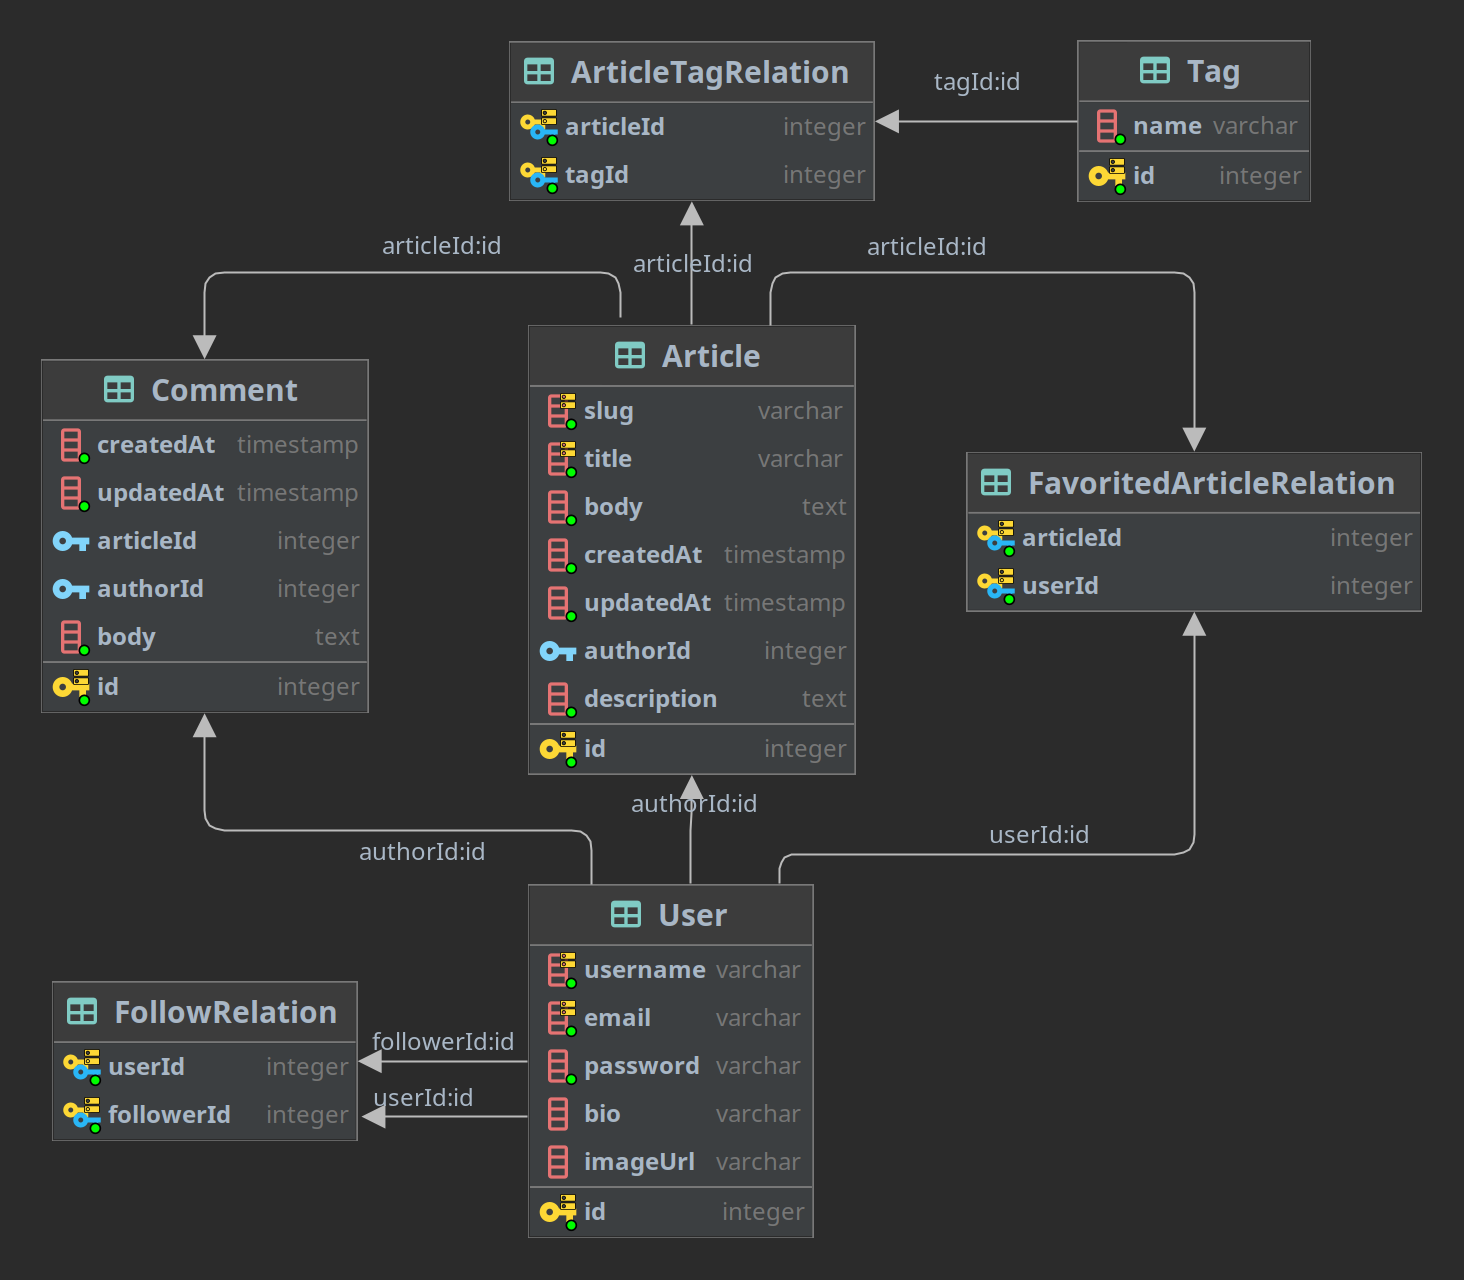
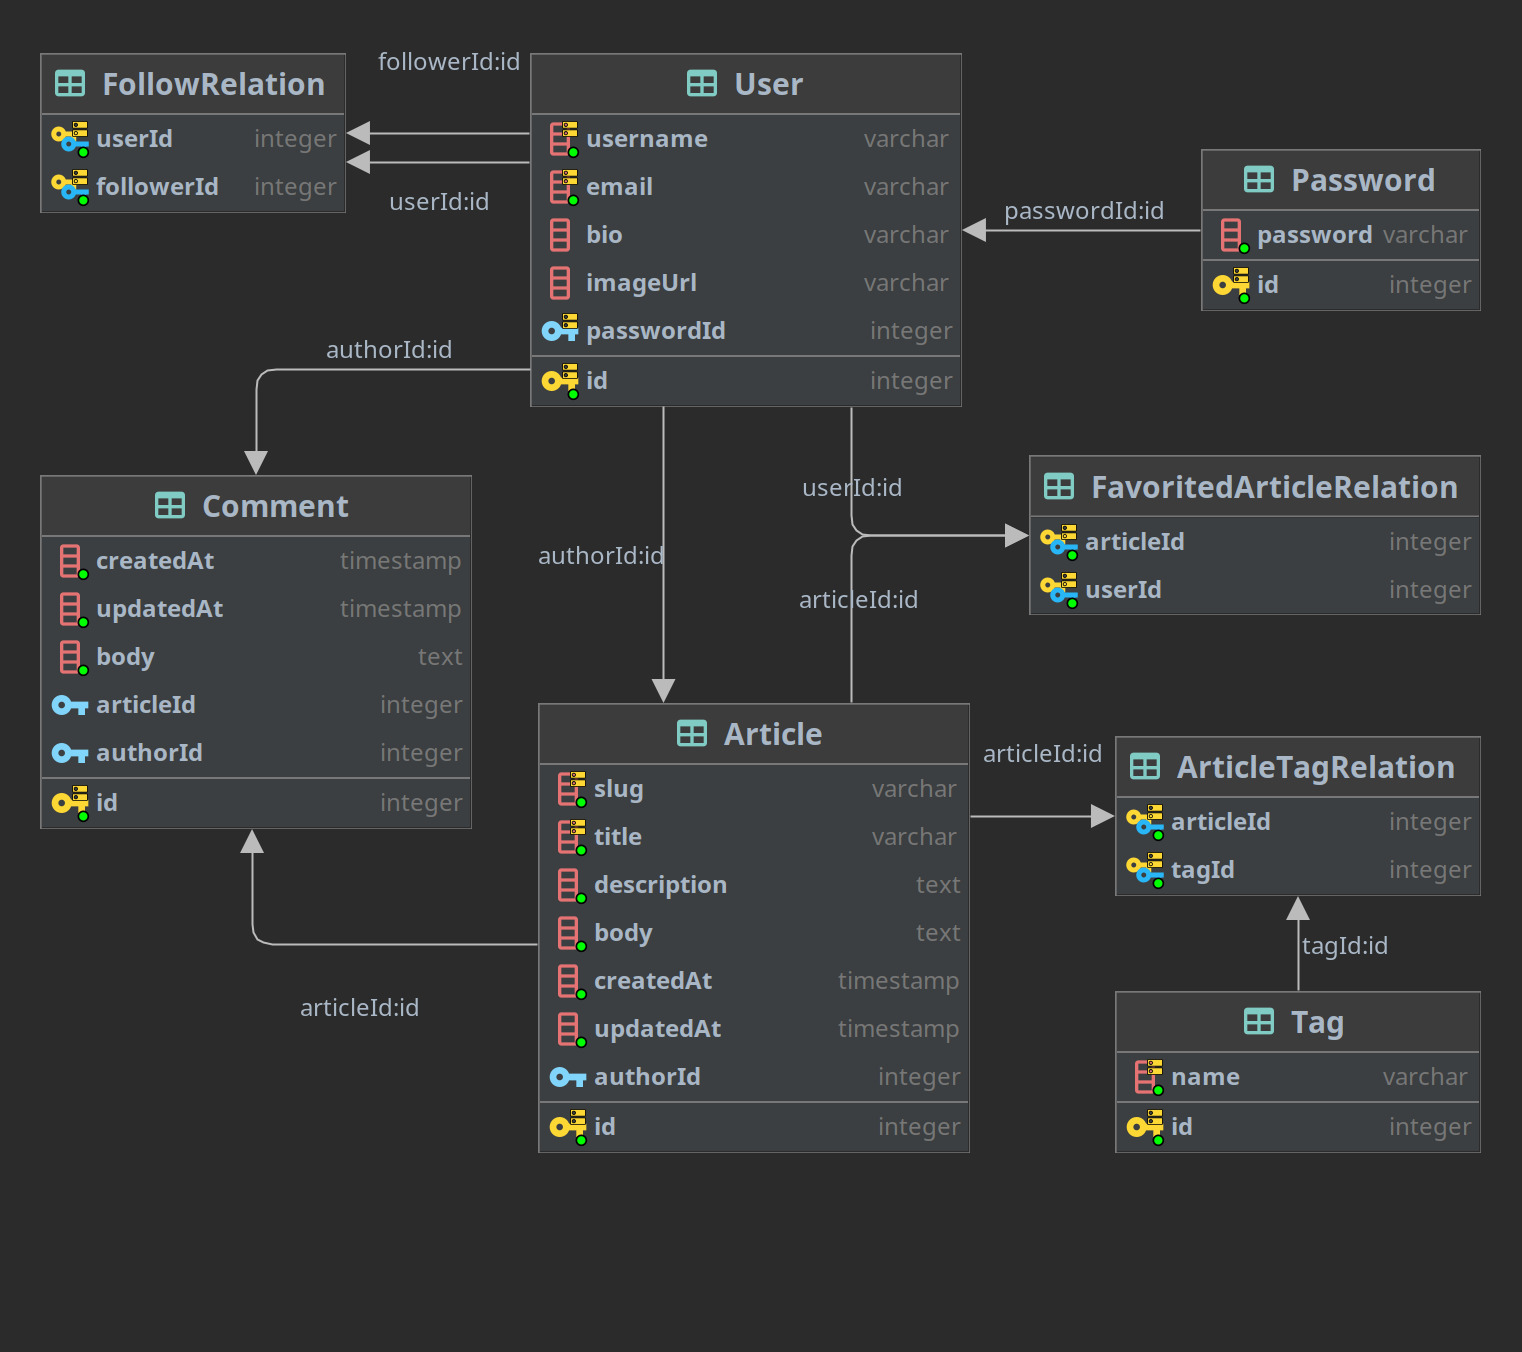
separates password to a different table in database

diff --git a/src/modules/auth/services/auth.service.ts b/src/modules/auth/services/auth.service.ts
@@ -4,23 +4,46 @@ import { User } from "../../users/entities/user.entity"
 import { LoginDto } from "../dto/login.dto"
 import { TokenService } from "./token.service"
 import { TokenizedUser } from "../../users/types/users.types"
-import { comparePasswordToHash } from "../security/hash-password"
+import { compareStringToHash } from "../security/hash-string"
 import { AUTH_MESSAGES } from "../../../exceptions/messages.exceptions"
+import { CreateUserDto } from "../../users/dto/create-user.dto"
+import { PasswordRepository } from "../../users/repositories/password.repository"
 
 @Injectable()
 export class AuthService {
-  constructor(private usersService: UsersService, private tokenService: TokenService) {}
+  constructor(
+    private usersService: UsersService,
+    private tokenService: TokenService,
+    private passRepo: PasswordRepository
+  ) {}
 
-  async login(loginData: LoginDto): Promise<TokenizedUser> {
-    const user = await this.authenticateUser(loginData.email, loginData.password)
+  async registerUser(createUserData: CreateUserDto): Promise<TokenizedUser> {
+    const password = createUserData.password
+    delete createUserData.password
+    const user = await this.usersService.registerUser(createUserData)
+    await this.registerPassword(user, password)
     return this.tokenService.addTokenToUser(user)
   }
 
-  private async authenticateUser(email: string, password: string): Promise<Partial<User>> {
-    const user = await this.usersService.getUserWithToken({ email })
-    if (!user) throw new UnauthorizedException(AUTH_MESSAGES.UNAUTHORIZED_CREDENTIALS)
-    const doesPasswordMatch = await comparePasswordToHash(password, user.password)
+  async login(loginData: LoginDto): Promise<TokenizedUser> {
+    const passwordEntity = await this.passRepo.getPasswordFromUserIdOrEmail(loginData.email)
+    if (!passwordEntity) throw new UnauthorizedException(AUTH_MESSAGES.UNAUTHORIZED_CREDENTIALS)
+    const doesPasswordMatch = await compareStringToHash(loginData.password, passwordEntity.password)
     if (!doesPasswordMatch) throw new UnauthorizedException(AUTH_MESSAGES.UNAUTHORIZED_CREDENTIALS)
-    return user
+    return await this.usersService.getUserWithToken({ email: loginData.email })
+  }
+
+  async updatePassword(requestingUserId: number, oldPassword: string, password: string): Promise<void> {
+    let passwordEntity = await this.passRepo.getPasswordFromUserIdOrEmail(requestingUserId)
+    passwordEntity = this.passRepo.create(passwordEntity)
+    const doesPasswordMatch = await compareStringToHash(oldPassword, passwordEntity.password)
+    if (!doesPasswordMatch) throw new UnauthorizedException(AUTH_MESSAGES.UNAUTHORIZED_CREDENTIALS)
+    passwordEntity.password = password
+    await this.passRepo.save(passwordEntity)
+  }
+
+  private async registerPassword(user: User, password: string): Promise<void> {
+    const passwordEntity = this.passRepo.create({ password, user })
+    await this.passRepo.save(passwordEntity)
   }
 }

diff --git a/src/modules/auth/controllers/auth.controller.ts b/src/modules/auth/controllers/auth.controller.ts
@@ -1,24 +1,36 @@
-import { Body, Controller, Post } from "@nestjs/common"
+import { Body, Controller, Post, Put, UseGuards } from "@nestjs/common"
 import { AuthService } from "../services/auth.service"
 import { LoginDto } from "../dto/login.dto"
 import { CreateUserDto } from "../../users/dto/create-user.dto"
-import { UsersService } from "../../users/services/users.service"
 import { UserDto } from "../../users/dto/user.dto"
 import { TokenizedUser } from "../../users/types/users.types"
 import { ResponseMapper } from "../../../interceptors/dto-response-mapper.interceptor"
+import { JwtAuthGuard } from "../guards/jwt-auth.guard"
+import { RequestingUserIdPipe } from "../../../pipes/requesting-user-id.pipe"
+import { UpdatePasswordDto } from "../dto/update-password.dto"
 
 @Controller("/users")
-@ResponseMapper(UserDto)
 export class AuthController {
-  constructor(private authService: AuthService, private usersService: UsersService) {}
+  constructor(private authService: AuthService) {}
 
+  @ResponseMapper(UserDto)
   @Post("/login")
   async login(@Body("user") loginData: LoginDto): Promise<TokenizedUser> {
     return await this.authService.login(loginData)
   }
 
+  @ResponseMapper(UserDto)
   @Post()
   async registerUser(@Body("user") createUserData: CreateUserDto): Promise<TokenizedUser> {
-    return await this.usersService.registerUser(createUserData)
+    return await this.authService.registerUser(createUserData)
+  }
+
+  @UseGuards(JwtAuthGuard)
+  @Put("/password")
+  async changePassword(
+    @RequestingUserIdPipe() id: number,
+    @Body("passwords") updatePasswordDto: UpdatePasswordDto
+  ): Promise<void> {
+    await this.authService.updatePassword(id, updatePasswordDto.oldPassword, updatePasswordDto.password)
   }
 }

diff --git a/src/modules/users/entities/user.entity.ts b/src/modules/users/entities/user.entity.ts
@@ -1,18 +1,18 @@
 import {
-  BeforeInsert,
-  BeforeUpdate,
   Column,
   Entity,
+  JoinColumn,
   JoinTable,
   ManyToMany,
   OneToMany,
+  OneToOne,
   PrimaryGeneratedColumn
 } from "typeorm"
 import { FollowRelation } from "./follow-relation.entity"
 import { Article } from "../../articles/entities/article.entity"
 import { Comment } from "../../articles/entities/comment.entity"
-import { hashPassword } from "src/modules/auth/security/hash-password"
 import { CreateUserDto } from "../dto/create-user.dto"
+import { Password } from "../../auth/entities/password.entity"
 
 @Entity({ name: "User" })
 export class User {
@@ -24,9 +24,6 @@ export class User {
 
   @Column({ unique: true })
   email: string
-
-  @Column()
-  password: string
 
   @Column({ nullable: true })
   bio?: string
@@ -47,16 +44,12 @@ export class User {
   @OneToMany(() => Comment, (comment) => comment.author)
   comments: Comment[]
 
-  @BeforeInsert()
-  @BeforeUpdate()
-  async hashPassword(): Promise<string> {
-    if (this.password.length < 32) this.password = await hashPassword(this.password)
-    return this.password
-  }
+  @OneToOne(() => Password, (password) => password.user)
+  @JoinColumn()
+  password: Password
 
   build(incomingUser: CreateUserDto): User {
     this.username = incomingUser.username
-    this.password = incomingUser.password
     this.email = incomingUser.email
     if (incomingUser.bio) this.bio = incomingUser.bio
     if (incomingUser.imageUrl) this.imageUrl = incomingUser.imageUrl

diff --git a/src/modules/users/repositories/password.repository.ts b/src/modules/users/repositories/password.repository.ts
@@ -1,0 +1,19 @@
+import { EntityRepository, Repository } from "typeorm"
+import { Password } from "../../auth/entities/password.entity"
+import { User } from "../entities/user.entity"
+import { isString } from "class-validator"
+
+@EntityRepository(Password)
+export class PasswordRepository extends Repository<Password> {
+  async getPasswordFromUserIdOrEmail(userId: number): Promise<Password>
+  async getPasswordFromUserIdOrEmail(email: string): Promise<Password>
+  async getPasswordFromUserIdOrEmail(emailOrId: string | number): Promise<Password> {
+    let query = this.manager
+      .createQueryBuilder()
+      .from(User, "U")
+      .select(["P.password as password", "P.id as id"])
+    if (isString(emailOrId)) query = query.where("U.email = :email", { email: emailOrId })
+    else query = query.where("U.id = :userId", { userId: emailOrId })
+    return await query.innerJoin(Password, "P", "U.passwordId = P.id").getRawOne()
+  }
+}

diff --git a/src/modules/users/services/users.service.ts b/src/modules/users/services/users.service.ts
@@ -5,15 +5,15 @@ import { TokenService } from "../../auth/services/token.service"
 import { FindOption, TokenizedUser } from "../types/users.types"
 import { UsersRepository } from "../repositories/users.repository"
 import { USER_MESSAGES } from "../../../exceptions/messages.exceptions"
+import { User } from "../entities/user.entity"
 
 @Injectable()
 export class UsersService {
   constructor(private usersRepo: UsersRepository, private tokenService: TokenService) {}
 
-  async registerUser(incomingUser: CreateUserDto): Promise<TokenizedUser> {
+  async registerUser(incomingUser: CreateUserDto): Promise<User> {
     await this.throwIfUserExists(incomingUser)
-    const user = await this.usersRepo.createAndSave(incomingUser)
-    return await this.tokenService.addTokenToUser(user)
+    return await this.usersRepo.createAndSave(incomingUser)
   }
 
   async getUserWithToken(option: FindOption): Promise<TokenizedUser> {

diff --git a/src/modules/users/dto/create-user.dto.ts b/src/modules/users/dto/create-user.dto.ts
@@ -1,20 +1,12 @@
-import { IsEmail, IsOptional, IsString, IsUrl, Matches, MaxLength, MinLength } from "class-validator"
+import { IsEmail, IsOptional, IsString, IsUrl } from "class-validator"
+import { PasswordDto } from "../../auth/dto/password.dto"
 
-export class CreateUserDto {
+export class CreateUserDto extends PasswordDto {
   @IsString()
   username: string
 
   @IsEmail()
   email: string
-
-  @IsString()
-  @MinLength(8, { message: "requires at least 8 characters" })
-  @MaxLength(32, { message: "requires at most 32 characters" })
-  @Matches("[A-Z]", "", { message: "requires upper-case characters" })
-  @Matches("[a-z]", "", { message: "requires lower-case characters" })
-  @Matches("\\d", "", { message: "requires numbers" })
-  @Matches("\\W", "", { message: "requires non alpha numeric characters" })
-  password: string
 
   @IsOptional()
   @IsString()

diff --git a/src/app.module.ts b/src/app.module.ts
@@ -9,6 +9,7 @@ import { Article } from "./modules/articles/entities/article.entity"
 import { Comment } from "./modules/articles/entities/comment.entity"
 import { Tag } from "./modules/articles/entities/tag.entity"
 import { ConfigModule, ConfigService } from "@nestjs/config"
+import { Password } from "./modules/auth/entities/password.entity"
 
 @Module({
   imports: [
@@ -25,8 +26,8 @@ import { ConfigModule, ConfigService } from "@nestjs/config"
           port: config.get("DB_PORT"),
           username: config.get("DB_USERNAME"),
           password: config.get("DB_PASSWORD"),
-          database: config.get("DB_USERNAME"),
-          entities: [User, FollowRelation, Article, Comment, Tag],
+          database: config.get("DB_NAME"),
+          entities: [User, FollowRelation, Article, Comment, Tag, Password],
           synchronize: true
         }
       }

diff --git a/src/modules/auth/auth.module.ts b/src/modules/auth/auth.module.ts
@@ -7,10 +7,14 @@ import { AuthController } from "./controllers/auth.controller"
 import { JwtStrategy } from "./security/jwt.strategy"
 import { TokenService } from "./services/token.service"
 import { ConfigService } from "@nestjs/config"
+import { TypeOrmModule } from "@nestjs/typeorm"
+import { UsersRepository } from "../users/repositories/users.repository"
+import { PasswordRepository } from "../users/repositories/password.repository"
 
 @Module({
   imports: [
     forwardRef(() => UsersModule),
+    TypeOrmModule.forFeature([UsersRepository, PasswordRepository]),
     PassportModule,
     JwtModule.registerAsync({
       inject: [ConfigService],

diff --git a/src/modules/auth/entities/password.entity.ts b/src/modules/auth/entities/password.entity.ts
@@ -1,0 +1,22 @@
+import { BeforeInsert, BeforeUpdate, Column, Entity, OneToOne, PrimaryGeneratedColumn } from "typeorm"
+import { User } from "../../users/entities/user.entity"
+import { hashString } from "../security/hash-string"
+
+@Entity({ name: "Password" })
+export class Password {
+  @PrimaryGeneratedColumn()
+  id: number
+
+  @Column()
+  password: string
+
+  @OneToOne(() => User, (user) => user.password)
+  user: User
+
+  @BeforeInsert()
+  @BeforeUpdate()
+  async hashPassword(): Promise<string> {
+    if (this.password.length < 32) this.password = await hashString(this.password)
+    return this.password
+  }
+}

diff --git a/src/modules/auth/dto/password.dto.ts b/src/modules/auth/dto/password.dto.ts
@@ -1,0 +1,12 @@
+import { IsString, Matches, MaxLength, MinLength } from "class-validator"
+
+export class PasswordDto {
+  @IsString()
+  @MinLength(8, { message: "requires at least 8 characters" })
+  @MaxLength(32, { message: "requires at most 32 characters" })
+  @Matches("[A-Z]", "", { message: "requires upper-case characters" })
+  @Matches("[a-z]", "", { message: "requires lower-case characters" })
+  @Matches("\\d", "", { message: "requires numbers" })
+  @Matches("\\W", "", { message: "requires non alpha numeric characters" })
+  password: string
+}

diff --git a/src/modules/users/dto/update-user.dto.ts b/src/modules/users/dto/update-user.dto.ts
@@ -1,4 +1,4 @@
 import { CreateUserDto } from "./create-user.dto"
-import { PartialType } from "@nestjs/mapped-types"
+import { OmitType } from "@nestjs/swagger"
 
-export class UpdateUserDto extends PartialType(CreateUserDto) {}
+export class UpdateUserDto extends OmitType(CreateUserDto, ["password"] as const) {}

diff --git a/src/modules/auth/security/hash-string.ts b/src/modules/auth/security/hash-string.ts
@@ -1,0 +1,9 @@
+import * as bcrypt from "bcrypt"
+
+export async function hashString(password: string) {
+  return bcrypt.hash(password, 10)
+}
+
+export async function compareStringToHash(password: string, bcryptHash: string): Promise<boolean> {
+  return bcrypt.compare(password, bcryptHash)
+}
